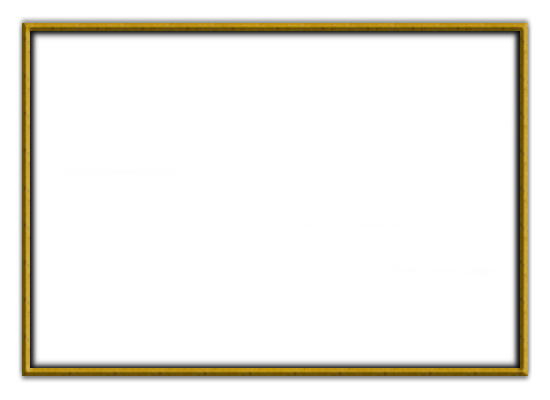
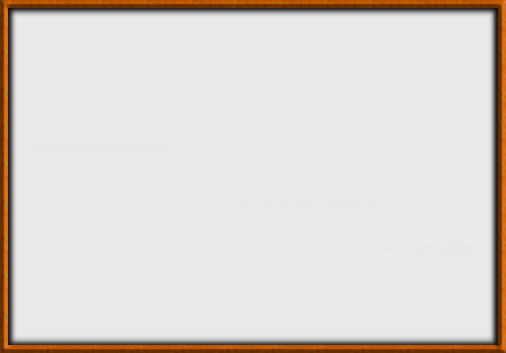
Design update

Changed region(s): [[0.0, 0.0, 1.0, 1.0]]

diff --git a/macpan/app/src/main/java/lost/macpan/panel/HighscoreMenu.java b/macpan/app/src/main/java/lost/macpan/panel/HighscoreMenu.java
@@ -48,7 +48,7 @@ public class HighscoreMenu extends JPanel implements ActionListener, ResourceHan
             Laden der einzenlen Bilder
          */
         try {
-            img = ImageIO.read(getFileResourcesAsStream("images/panelImages/HighscoresPlatzhalter.png"));
+            img = ImageIO.read(getFileResourcesAsStream("images/panelImages/Highscore.png"));
         } catch (Exception e) {
             e.printStackTrace();
         }
@@ -95,78 +95,78 @@ public class HighscoreMenu extends JPanel implements ActionListener, ResourceHan
         String[] lastStringHopefully = out.split("\n");
         if (lastStringHopefully.length > 0) {
             JLabel hLb1 = new JLabel(lastStringHopefully[0]);
-            hLb1.setBounds(290, 200, 500, 100);
+            hLb1.setBounds(290, 190, 500, 100);
             hLb1.setFont(new Font(Font.MONOSPACED, Font.BOLD, 20));
             hLb1.setForeground(Color.BLACK);
             add(hLb1);
         }
         if (lastStringHopefully.length > 1) {
             JLabel hLb2 = new JLabel(lastStringHopefully[1]);
-            hLb2.setBounds(290, 230, 500, 100);
+            hLb2.setBounds(290, 220, 500, 100);
             hLb2.setFont(new Font(Font.MONOSPACED, Font.BOLD, 20));
             hLb2.setForeground(Color.BLACK);
             add(hLb2);
         }
         if (lastStringHopefully.length > 2) {
             JLabel hLb3 = new JLabel(lastStringHopefully[2]);
-            hLb3.setBounds(290, 260, 500, 100);
+            hLb3.setBounds(290, 250, 500, 100);
             hLb3.setFont(new Font(Font.MONOSPACED, Font.BOLD, 20));
             hLb3.setForeground(Color.BLACK);
             add(hLb3);
         }
         if (lastStringHopefully.length > 3) {
             JLabel hLb4 = new JLabel(lastStringHopefully[3]);
-            hLb4.setBounds(290, 290, 500, 100);
+            hLb4.setBounds(290, 280, 500, 100);
             hLb4.setFont(new Font(Font.MONOSPACED, Font.BOLD, 20));
             hLb4.setForeground(Color.BLACK);
             add(hLb4);
         }
         if (lastStringHopefully.length > 4) {
             JLabel hLb5 = new JLabel(lastStringHopefully[4]);
-            hLb5.setBounds(290, 320, 500, 100);
+            hLb5.setBounds(290, 310, 500, 100);
             hLb5.setFont(new Font(Font.MONOSPACED, Font.BOLD, 20));
             hLb5.setForeground(Color.BLACK);
             add(hLb5);
         }
         if (lastStringHopefully.length > 5) {
             JLabel hLb6 = new JLabel(lastStringHopefully[5]);
-            hLb6.setBounds(290, 350, 500, 100);
+            hLb6.setBounds(290, 340, 500, 100);
             hLb6.setFont(new Font(Font.MONOSPACED, Font.BOLD, 20));
             hLb6.setForeground(Color.BLACK);
             add(hLb6);
         }
         if (lastStringHopefully.length > 6) {
             JLabel hLb7 = new JLabel(lastStringHopefully[6]);
-            hLb7.setBounds(290, 380, 500, 100);
+            hLb7.setBounds(290, 370, 500, 100);
             hLb7.setFont(new Font(Font.MONOSPACED, Font.BOLD, 20));
             hLb7.setForeground(Color.BLACK);
             add(hLb7);
         }
         if (lastStringHopefully.length > 7) {
             JLabel hLb8 = new JLabel(lastStringHopefully[7]);
-            hLb8.setBounds(290, 410, 500, 100);
+            hLb8.setBounds(290, 400, 500, 100);
             hLb8.setFont(new Font(Font.MONOSPACED, Font.BOLD, 20));
             hLb8.setForeground(Color.BLACK);
             add(hLb8);
         }
         if (lastStringHopefully.length > 8) {
             JLabel hLb9 = new JLabel(lastStringHopefully[8]);
-            hLb9.setBounds(290, 440, 500, 100);
+            hLb9.setBounds(290, 430, 500, 100);
             hLb9.setFont(new Font(Font.MONOSPACED, Font.BOLD, 20));
             hLb9.setForeground(Color.BLACK);
             add(hLb9);
         }
         if (lastStringHopefully.length > 9) {
             JLabel hLb10 = new JLabel(lastStringHopefully[9]);
-            hLb10.setBounds(280, 470, 500, 100);
+            hLb10.setBounds(280, 460, 500, 100);
             hLb10.setFont(new Font(Font.MONOSPACED, Font.BOLD, 20));
             hLb10.setForeground(Color.BLACK);
             add(hLb10);
         }
-        highscoreBackground.setBounds(220, 210, 514, 361);
+        highscoreBackground.setBounds(220, 200, 514, 361);
         add(highscoreBackground);
         background.setBounds(0, 0, 950, 700);
-        label.setBounds(175, 50, 600, 200);
+        label.setBounds(-20, 10, 950, 200);
         backBtn.setBounds(30, 550, 160, 50);
         add(label);
         add(backBtn);

diff --git a/macpan/app/src/main/java/lost/macpan/panel/GameDescriptionMenu.java b/macpan/app/src/main/java/lost/macpan/panel/GameDescriptionMenu.java
@@ -26,13 +26,15 @@ public class GameDescriptionMenu extends JPanel implements ActionListener, Resou
     private Container before;
     private JLabel background;
     private Image backgroundImg;
+    private Image descriptionImg;
+    private JLabel descriptionLabel;
 
     public GameDescriptionMenu(JFrame frame, Container beforeMenu) {
         before = beforeMenu;
         parentFrame = frame;
 
         try {
-            img = ImageIO.read(getFileResourcesAsStream("images/panelImages/SpielbeschreibungPlatzhalter.png"));
+            img = ImageIO.read(getFileResourcesAsStream("images/panelImages/Description.png"));
         } catch (Exception e) {
             e.printStackTrace();
         }
@@ -47,10 +49,20 @@ public class GameDescriptionMenu extends JPanel implements ActionListener, Resou
         if (backgroundImg != null) {
             background = new JLabel(new ImageIcon(backgroundImg));
         }
+        try {
+            descriptionImg = ImageIO.read(getFileResourcesAsStream("images/panelImages/HighscoreBackground.png"));
+        } catch (Exception e) {
+            e.printStackTrace();
+        }
+        if (backgroundImg != null) {
+            descriptionLabel = new JLabel(new ImageIcon(descriptionImg));
+        }
         setLayout(null);
+        descriptionLabel.setBounds(220, 200, 514, 361);
         background.setBounds(0, 0, 950, 700);
-        label.setBounds(175, 50, 600, 200);
+        label.setBounds(-20, 10, 950, 200);
         backBtn.setBounds(30, 550, 160, 50);
+        add(descriptionLabel);
         add(label);
         add(backBtn);
         add(background);

diff --git a/macpan/app/src/main/java/lost/macpan/panel/QuitMenu.java b/macpan/app/src/main/java/lost/macpan/panel/QuitMenu.java
@@ -33,12 +33,12 @@ public class QuitMenu extends JPanel implements ActionListener, ResourceHandler 
         parentFrame = frame;
         // Laden der Bilder, falls diese vorhanden sind
         try {
-            img_1 = ImageIO.read(getFileResourcesAsStream("images/panelImages/SpielBeendenPlatzhalter1.png"));
+            img_1 = ImageIO.read(getFileResourcesAsStream("images/panelImages/Quit.png"));
         } catch (Exception e) {
             e.printStackTrace();
         }
         try {
-            img_2 = ImageIO.read(getFileResourcesAsStream("images/panelImages/SpielBeendenPlatzhalter2.png"));
+            img_2 = ImageIO.read(getFileResourcesAsStream("images/panelImages/Quit_2.png"));
         } catch (Exception e) {
             e.printStackTrace();
         }
@@ -60,7 +60,7 @@ public class QuitMenu extends JPanel implements ActionListener, ResourceHandler 
         setLayout(null);
         // Positionierung der Labels und Buttons
         background.setBounds(0, 0, 950, 700);
-        topLabel.setBounds(175, 50, 600, 200);
+        topLabel.setBounds(-20, 10, 950, 200);
         subLabel.setBounds(175, 250, 600, 200);
         yesBtn.setBounds(740, 550, 160, 50);
         noBtn.setBounds(30, 550, 160, 50);

diff --git a/macpan/app/src/main/java/lost/macpan/panel/KeysMenu.java b/macpan/app/src/main/java/lost/macpan/panel/KeysMenu.java
@@ -33,12 +33,12 @@ public class KeysMenu extends JPanel implements ActionListener, ResourceHandler 
         before = beforeMenu;
         parentFrame = frame;
         try {
-            img_1 = ImageIO.read(getFileResourcesAsStream("images/panelImages/TastenbelegungPlatzhalter.png"));
+            img_1 = ImageIO.read(getFileResourcesAsStream("images/panelImages/Keys.png"));
         } catch (Exception e) {
             e.printStackTrace();
         }
         try {
-            img_2 = ImageIO.read(getFileResourcesAsStream("images/panelImages/Tastenbelegung_1.png"));
+            img_2 = ImageIO.read(getFileResourcesAsStream("images/panelImages/description_1.png"));
         } catch (Exception e) {
             e.printStackTrace();
         }
@@ -58,8 +58,8 @@ public class KeysMenu extends JPanel implements ActionListener, ResourceHandler 
         }
         setLayout(null);
         background.setBounds(0, 0, 950, 700);
-        topLabel.setBounds(175, 50, 600, 200);
-        subLabel.setBounds(175, 250, 600, 400);
+        topLabel.setBounds(-20, 10, 950, 200);
+        subLabel.setBounds(175, 150, 600, 400);
         backBtn.setBounds(30, 550, 160, 50);
         add(topLabel);
         add(backBtn);

diff --git a/macpan/app/src/main/java/lost/macpan/panel/LooserMenu.java b/macpan/app/src/main/java/lost/macpan/panel/LooserMenu.java
@@ -26,7 +26,7 @@ public class LooserMenu extends JPanel implements ActionListener, ResourceHandle
     public LooserMenu(JFrame frame) {
         parentFrame = frame;
         try {
-            img = ImageIO.read(getFileResourcesAsStream("images/panelImages/GestorbenPlatzhalter.png"));
+            img = ImageIO.read(getFileResourcesAsStream("images/panelImages/Loose.png"));
         } catch (Exception e) {
             e.printStackTrace();
         }
@@ -45,7 +45,7 @@ public class LooserMenu extends JPanel implements ActionListener, ResourceHandle
 
         setLayout(null);
         background.setBounds(0, 0, 950, 700);
-        label.setBounds(175, 50, 600, 200);
+        label.setBounds(-20, 10, 950, 200);
         add(label);
         add(background);
     }

diff --git a/macpan/app/src/main/java/lost/macpan/panel/PauseMenu.java b/macpan/app/src/main/java/lost/macpan/panel/PauseMenu.java
@@ -42,7 +42,7 @@ public class PauseMenu extends JPanel implements ActionListener, ResourceHandler
     public PauseMenu(JFrame frame) {
         parentFrame = frame;
         try {
-            img = ImageIO.read(getFileResourcesAsStream("images/panelImages/PausemenuePlatzhalter.png"));
+            img = ImageIO.read(getFileResourcesAsStream("images/panelImages/Pause.png"));
         } catch (Exception e) {
             e.printStackTrace();
         }

diff --git a/macpan/app/src/main/java/lost/macpan/panel/WinnerMenu.java b/macpan/app/src/main/java/lost/macpan/panel/WinnerMenu.java
@@ -26,7 +26,7 @@ public class WinnerMenu extends JPanel implements ActionListener, ResourceHandle
     public WinnerMenu(JFrame frame) {
         parentFrame = frame;
         try {
-            img = ImageIO.read(getFileResourcesAsStream("images/panelImages/GewonnenPlatzhalter.png"));
+            img = ImageIO.read(getFileResourcesAsStream("images/panelImages/Win.png"));
         } catch (Exception e) {
             e.printStackTrace();
         }

diff --git a/macpan/app/src/main/java/lost/macpan/panel/OptionsMenu.java b/macpan/app/src/main/java/lost/macpan/panel/OptionsMenu.java
@@ -33,7 +33,7 @@ public class OptionsMenu extends JPanel implements ActionListener, ResourceHandl
         parentFrame = frame;
         before = beforeMenu;
         try {
-            img = ImageIO.read(getFileResourcesAsStream("images/panelImages/OptionenPlatzhalter.png"));
+            img = ImageIO.read(getFileResourcesAsStream("images/panelImages/Options.png"));
         } catch (Exception e) {
             e.printStackTrace();
         }

diff --git a/macpan/app/src/main/java/lost/macpan/panel/MainMenu.java b/macpan/app/src/main/java/lost/macpan/panel/MainMenu.java
@@ -49,7 +49,7 @@ public class MainMenu extends JPanel implements ActionListener, ResourceHandler 
         parentFrame = frame;
 
         try {
-            img = ImageIO.read(getFileResourcesAsStream("images/panelImages/MacPanLabel.png"));
+            img = ImageIO.read(getFileResourcesAsStream("images/panelImages/MacPan.png"));
         } catch (Exception e) {
             e.printStackTrace();
         }
